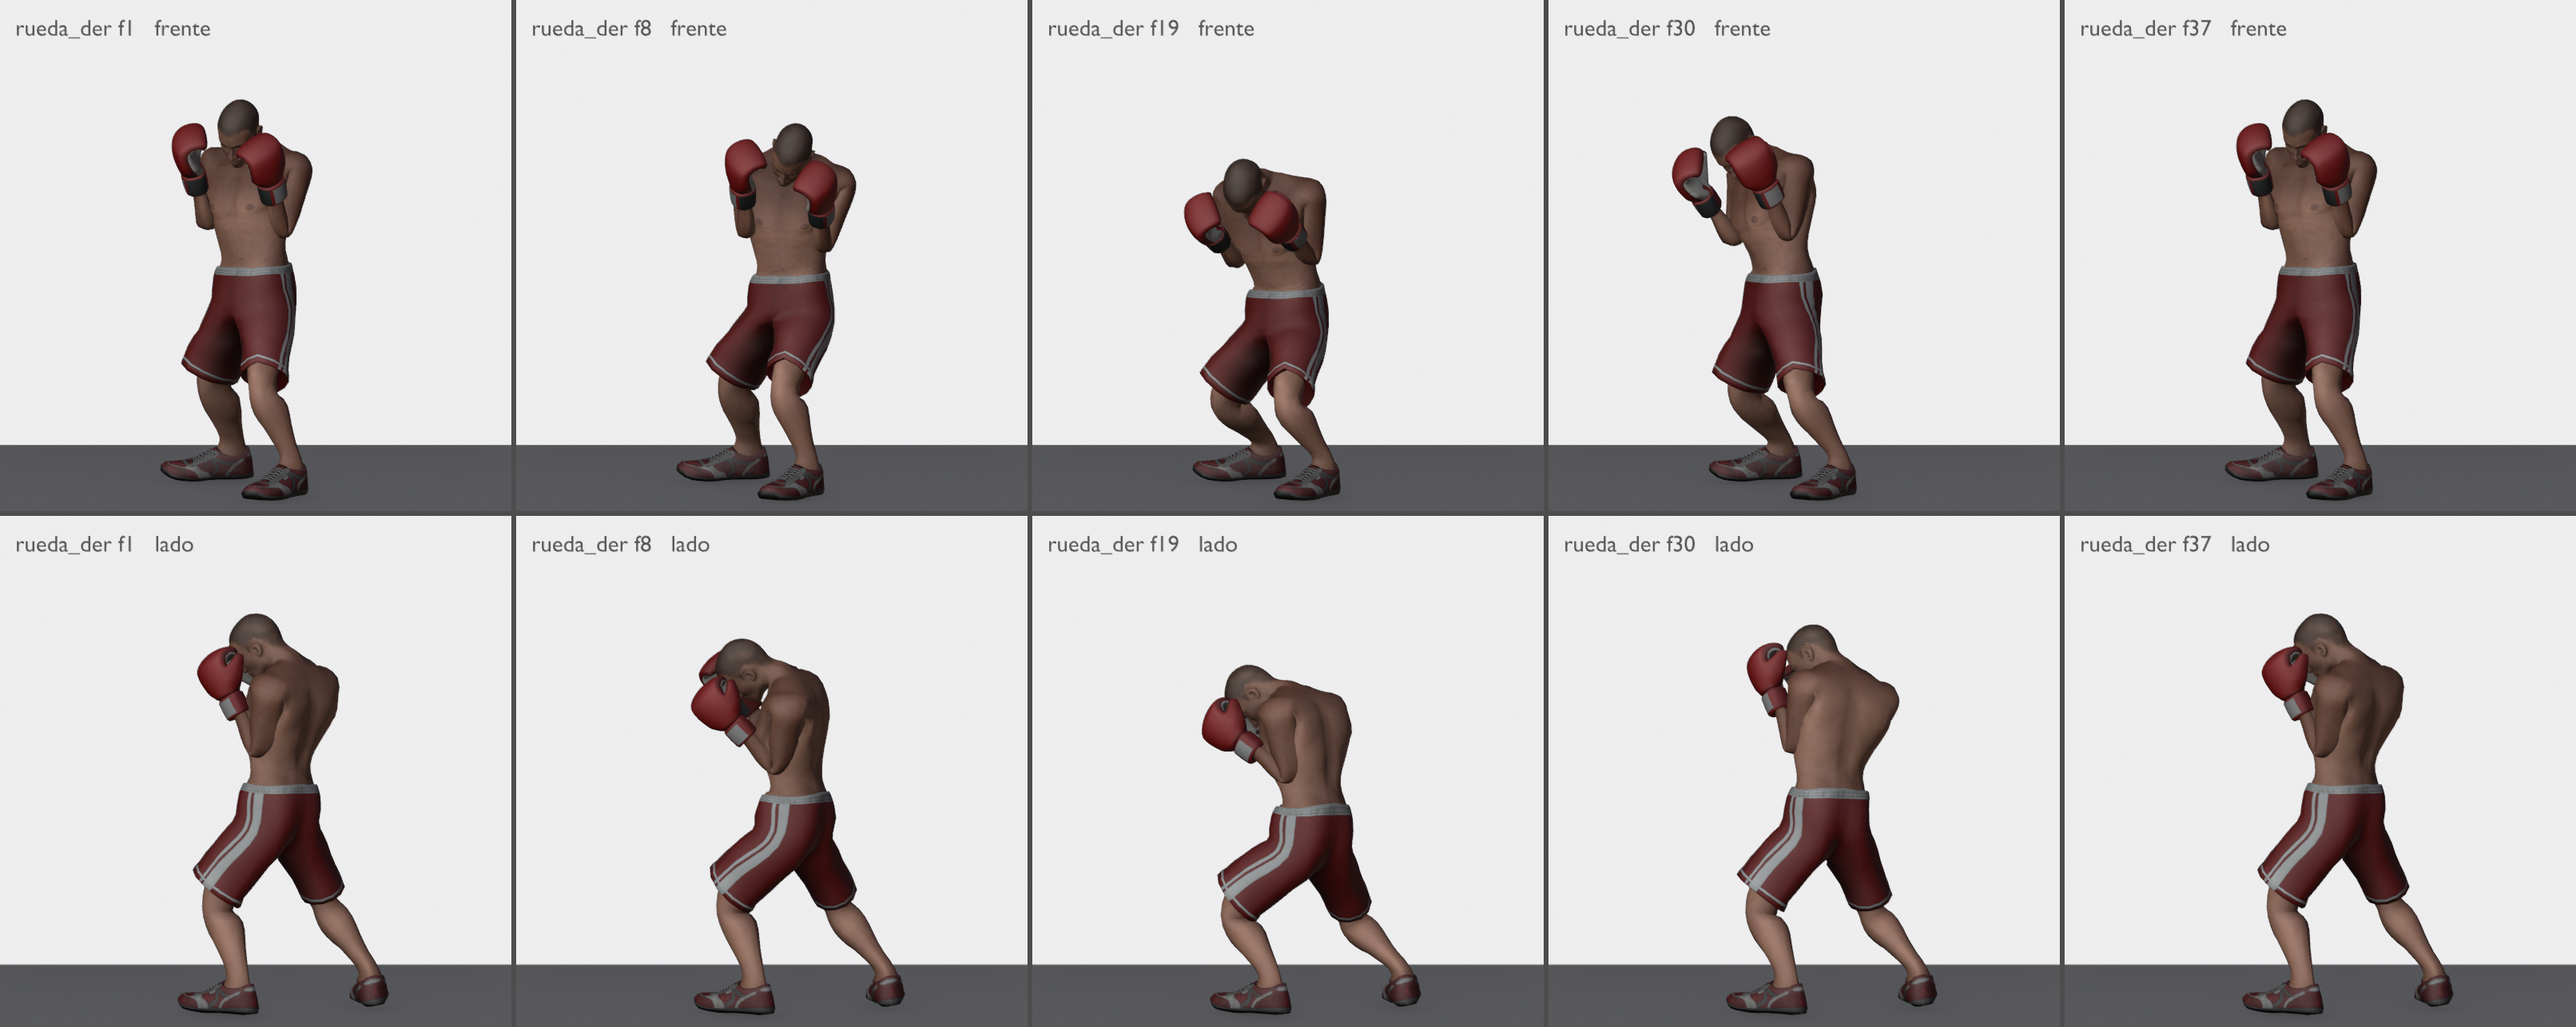
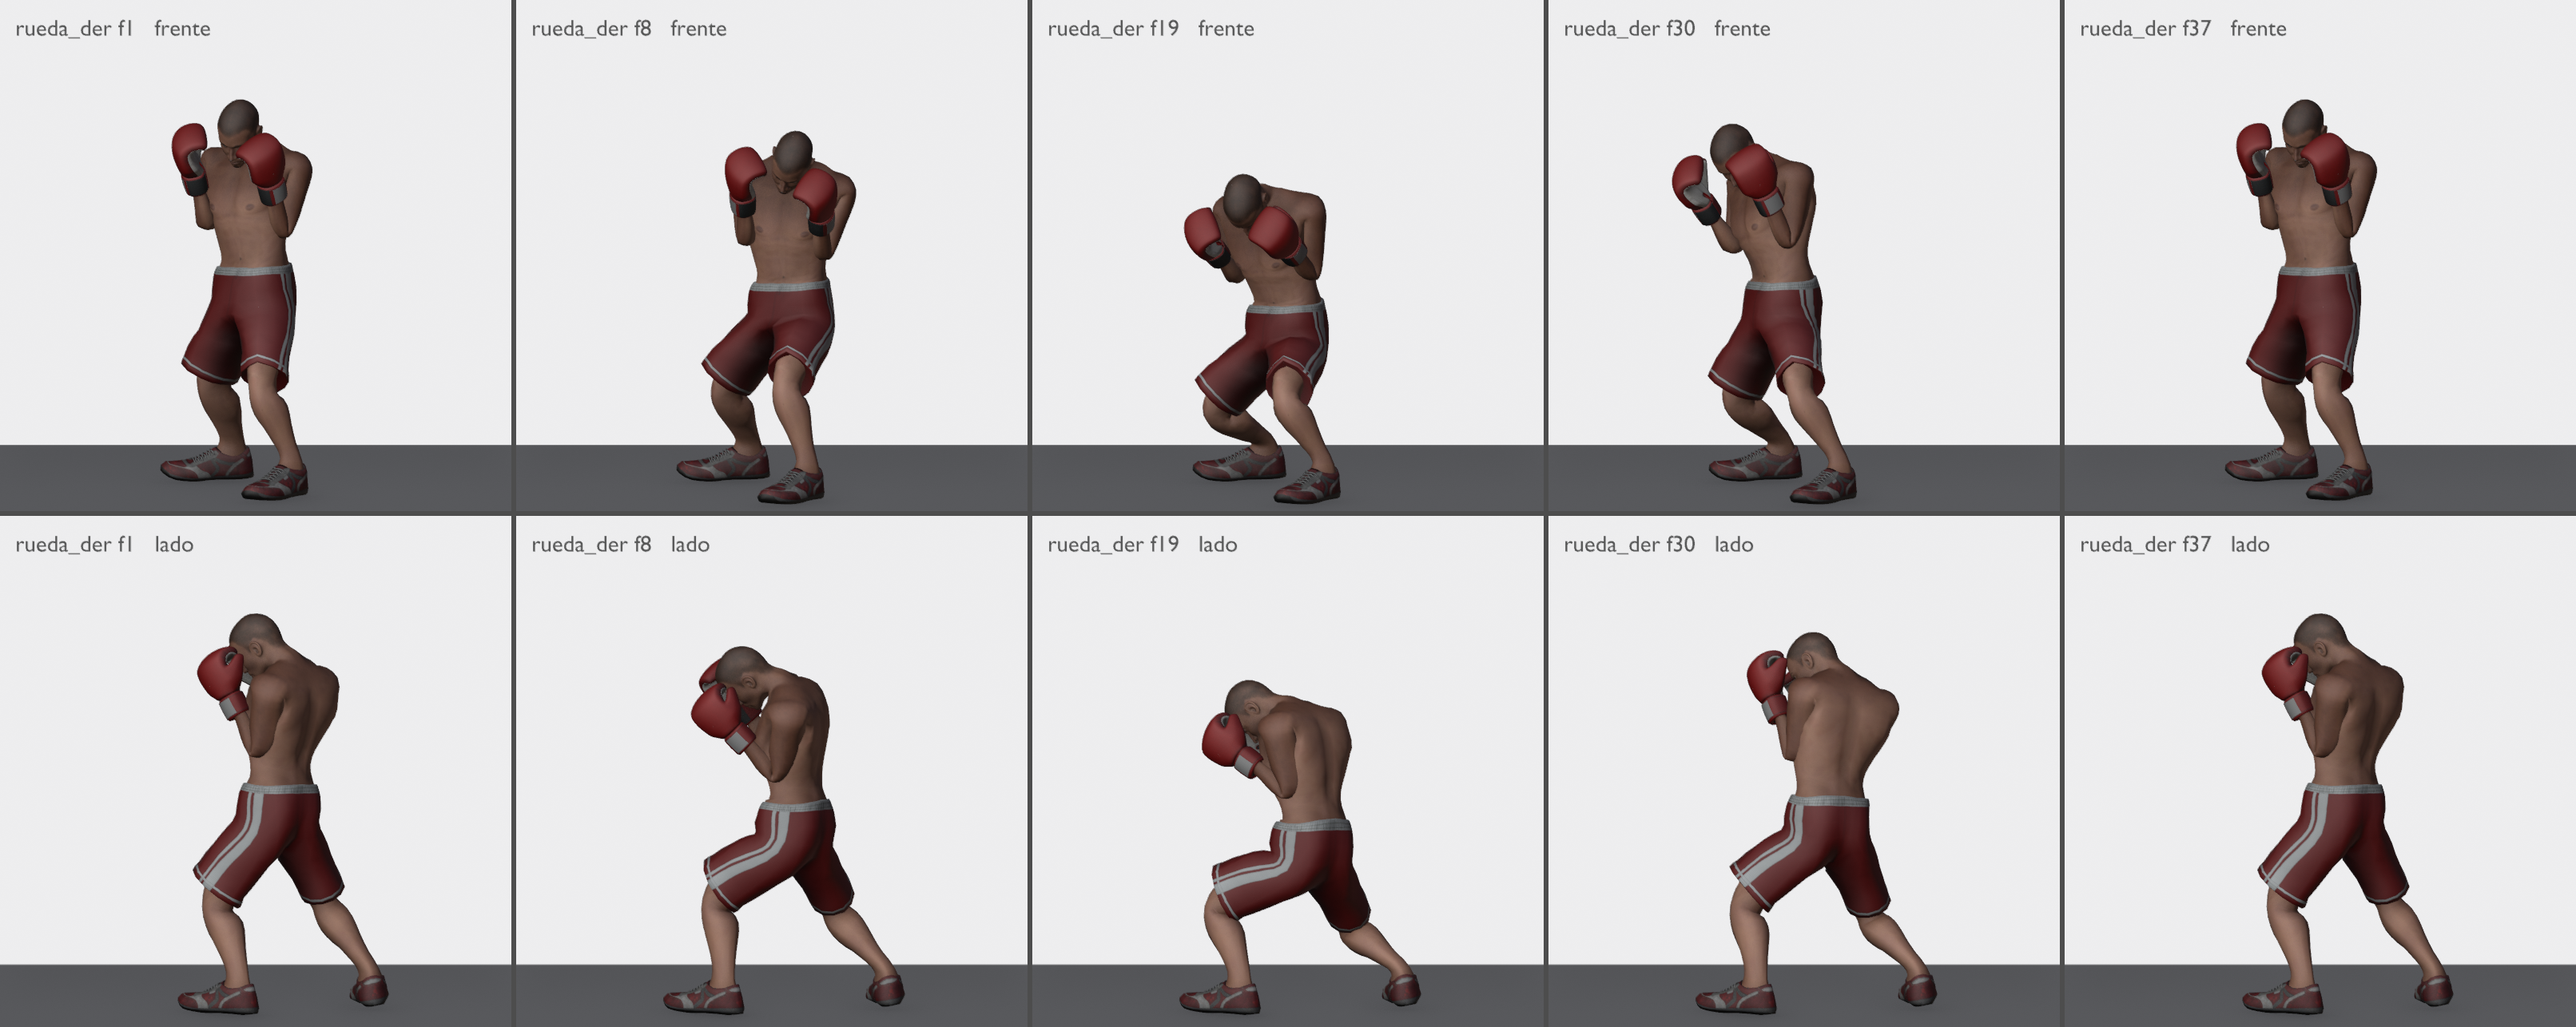
Rueda: pierna de delante adelantada y más flexión de rodillas

diff --git a/scripts/fase5_b.py b/scripts/fase5_b.py
@@ -8,7 +8,7 @@ Ejecutar DESPUÉS de fase4_b.py (que rehace las _v2 y deja paso_atras_v2 desplaz
    arriba), bloqueo_bajo_izq/_der (codo pegado a las costillas, giro y encogimiento hacia ese
    lado). Izquierda y derecha se definen a mano (sin espejo: los pies no cambian).
 3. Rueda hecha a mano (37 fot., 1,2 s): rueda_der y rueda_izq. La cabeza dibuja una "U" (sube
-   en el lado del nombre); cadera y tronco giran y se inclinan, rodillas un poco flexionadas,
+   en el lado del nombre); cadera y tronco giran y se inclinan, rodillas flexionadas (la cadera baja hasta 15 cm), pierna de delante adelantada 12 cm,
    guantes en guardia todo el tiempo.
 4. Esquivas _v2: los pies resbalaban bajo una cadera fija (sin desplazamiento X/Y): parecía
    que flotaba. Ahora los pies van fijos en el suelo con IK (suela en Z=0) donde están en el
@@ -374,7 +374,7 @@ def rotar(nombre, R):
     upd()
 
 
-def posar(par, brazos):
+def posar(par, brazos, pies_extra=None):
     """par: parámetros (m y grados). brazos: {lado: (guante en coords. de cabeza, codo en coords. de pecho)}.
     giro/torsion/lado positivos = hacia la izquierda del boxeador."""
     base_cuerpo()
@@ -400,7 +400,7 @@ def posar(par, brazos):
     cara, arriba, _ = marco("Head")
     rotar("Head", Quaternion(arriba.cross(cara), math.radians(par["cabeza"] * 0.6)))
     # piernas: pies fijos en el suelo
-    pies = {lado: PIE0[lado] + par.get("pie_" + lado, Vector()) for lado in LADOS}
+    pies = {lado: PIE0[lado] + (pies_extra or {}).get(lado, Vector()) for lado in LADOS}
     bajada = bajar_para_llegar(pies)
     desliz = max(ik_pierna(lado, T) for lado, T in pies.items())
     # brazos
@@ -489,7 +489,7 @@ def medir_pico(lados):
     return "; ".join(txt)
 
 
-def crear(nombre, n_fot, claves, modo, brazos, pico=None):
+def crear(nombre, n_fot, claves, modo, brazos, pico=None, pies=None):
     a = bpy.data.actions.new(nombre)
     a.use_fake_user = True
     arm.animation_data.action = a
@@ -498,7 +498,7 @@ def crear(nombre, n_fot, claves, modo, brazos, pico=None):
     rep = dict(bajada=0.0, desliz=0.0, hueco=1.0, empuje=0.0, guantes=1.0, cab_min=9.0, cab_x=[0.0, 0.0])
     for f in range(1, n_fot + 1):
         esc.frame_set(f)
-        r = posar(interp(claves, f, modo), brazos)
+        r = posar(interp(claves, f, modo), brazos, pies(f) if pies else None)
         for n, b in pb.items():
             previo[n] = clave(b, f, previo[n])
         pb["Hips"].keyframe_insert("location", frame=f, group=pb["Hips"].name)
@@ -606,10 +606,27 @@ def claves_rueda(s):
     """s = +1: la U empieza a la izquierda y termina a la derecha (rueda_der); s = -1 al revés."""
     # abdomen contraído (el torso baja) y guantes un poco más arriba durante toda la rueda
     a = dict(sx=0.08 * s, giro=15.0 * s, lado=11.0 * s, torsion=8.0 * s, cuello=-11.0 * s,
-             baja=0.03, flex=3.0, abdomen=8.0, cabeza=3.0, wL=1.0, wR=1.0)
-    fondo = dict(baja=0.09, flex=10.0, abdomen=16.0, cabeza=8.0, wL=1.0, wR=1.0)
+             baja=0.06, flex=3.0, abdomen=8.0, cabeza=3.0, wL=1.0, wR=1.0)
+    fondo = dict(baja=0.15, flex=10.0, abdomen=16.0, cabeza=8.0, wL=1.0, wR=1.0)
     b = {k: (-v if k in ("sx", "giro", "lado", "torsion", "cuello") else v) for k, v in a.items()}
     return [(1, {}), (8, a), (19, fondo), (30, b), (N_RUEDA, {})]
+
+
+# pierna de delante (izquierda) adelantada PASO_RUEDA durante la rueda: paso al empezar (fot. 1-7,
+# antes de la U) y vuelta al final (fot. 31-37) para acabar en la guardia
+PASO_RUEDA = 0.12
+
+
+def pie_delante_rueda(f):
+    if f <= 1 or f >= N_RUEDA:
+        return {}
+    if f < 7:
+        t = (f - 1) / 6
+    elif f > 31:
+        t = (N_RUEDA - f) / 6
+    else:
+        return {"Left": DELANTE * PASO_RUEDA}
+    return {"Left": DELANTE * (PASO_RUEDA * suave(t)) + Vector((0, 0, 0.03 * math.sin(math.pi * t)))}
 
 
 # guantes 3,5 cm más arriba que en la guardia (respecto a la cabeza) para cubrir los golpes altos
@@ -617,7 +634,7 @@ MANOS_ARRIBA = {lado: (GUARDIA[lado][0] + Vector((0.0, 0.035, -0.005)), GUARDIA[
                 for lado in LADOS}
 p("\n=== RUEDAS (la cabeza dibuja una U y sube en el lado del nombre) ===")
 for nombre, s in (("rueda_der", 1.0), ("rueda_izq", -1.0)):
-    rep = crear(nombre, N_RUEDA, claves_rueda(s), "continuo", MANOS_ARRIBA)
+    rep = crear(nombre, N_RUEDA, claves_rueda(s), "continuo", MANOS_ARRIBA, pies=pie_delante_rueda)
     informe(nombre, N_RUEDA, rep)
 
 # ---------------------------------------------------------------- 5. esquivas: pies fijos en el suelo y paso real

diff --git a/README.md b/README.md
@@ -77,8 +77,9 @@ python scripts/comparar_choques.py                               # tablas de cho
     abdomen contraído y guantes delante de la cara.
   `fase5_resumen.txt` dice dónde queda cada codo y cada guante en el punto clave.
 - **Rueda:** `rueda` y `rueda_v2` se sustituyen por `rueda_der` y `rueda_izq` (37 fot., 1,2 s): la cabeza
-  dibuja una U y sube en el lado del nombre; cadera y tronco giran e inclinan, rodillas un poco
-  flexionadas (la cadera baja 9 cm; en la flexión, 18), el abdomen se contrae (el torso baja) y los
+  dibuja una U y sube en el lado del nombre; cadera y tronco giran e inclinan, la pierna de delante
+  se adelanta 12 cm (paso en los fot. 1-7 y vuelta en los 31-37), rodillas flexionadas (la cadera
+  baja hasta 15 cm en el fondo de la U; en la flexión, 18), el abdomen se contrae (el torso baja) y los
   guantes van 3,5 cm más arriba que en la guardia para cubrir los golpes altos.
 - **Esquivas `_v2`:** los pies resbalaban bajo una cadera fija (parecía que flotaba). Ahora los pies
   están fijos en el suelo con IK (suela en Z=0) y dan un paso real de 22 cm: el derecho hacia atrás
@@ -163,8 +164,9 @@ blender.exe --background --python scripts/comparativa_render.py  # comparativa_v
     abdomen contraído y guantes delante de la cara.
   `fase5_resumen.txt` dice dónde queda cada codo y cada guante en el punto clave.
 - **Rueda:** `rueda` y `rueda_v2` se sustituyen por `rueda_der` y `rueda_izq` (37 fot., 1,2 s): la cabeza
-  dibuja una U y sube en el lado del nombre; cadera y tronco giran e inclinan, rodillas un poco
-  flexionadas (la cadera baja 9 cm; en la flexión, 18), el abdomen se contrae (el torso baja) y los
+  dibuja una U y sube en el lado del nombre; cadera y tronco giran e inclinan, la pierna de delante
+  se adelanta 12 cm (paso en los fot. 1-7 y vuelta en los 31-37), rodillas flexionadas (la cadera
+  baja hasta 15 cm en el fondo de la U; en la flexión, 18), el abdomen se contrae (el torso baja) y los
   guantes van 3,5 cm más arriba que en la guardia para cubrir los golpes altos.
 - **Esquivas `_v2`:** los pies resbalaban bajo una cadera fija (parecía que flotaba). Ahora los pies
   están fijos en el suelo con IK (suela en Z=0) y dan un paso real de 22 cm: el derecho hacia atrás
